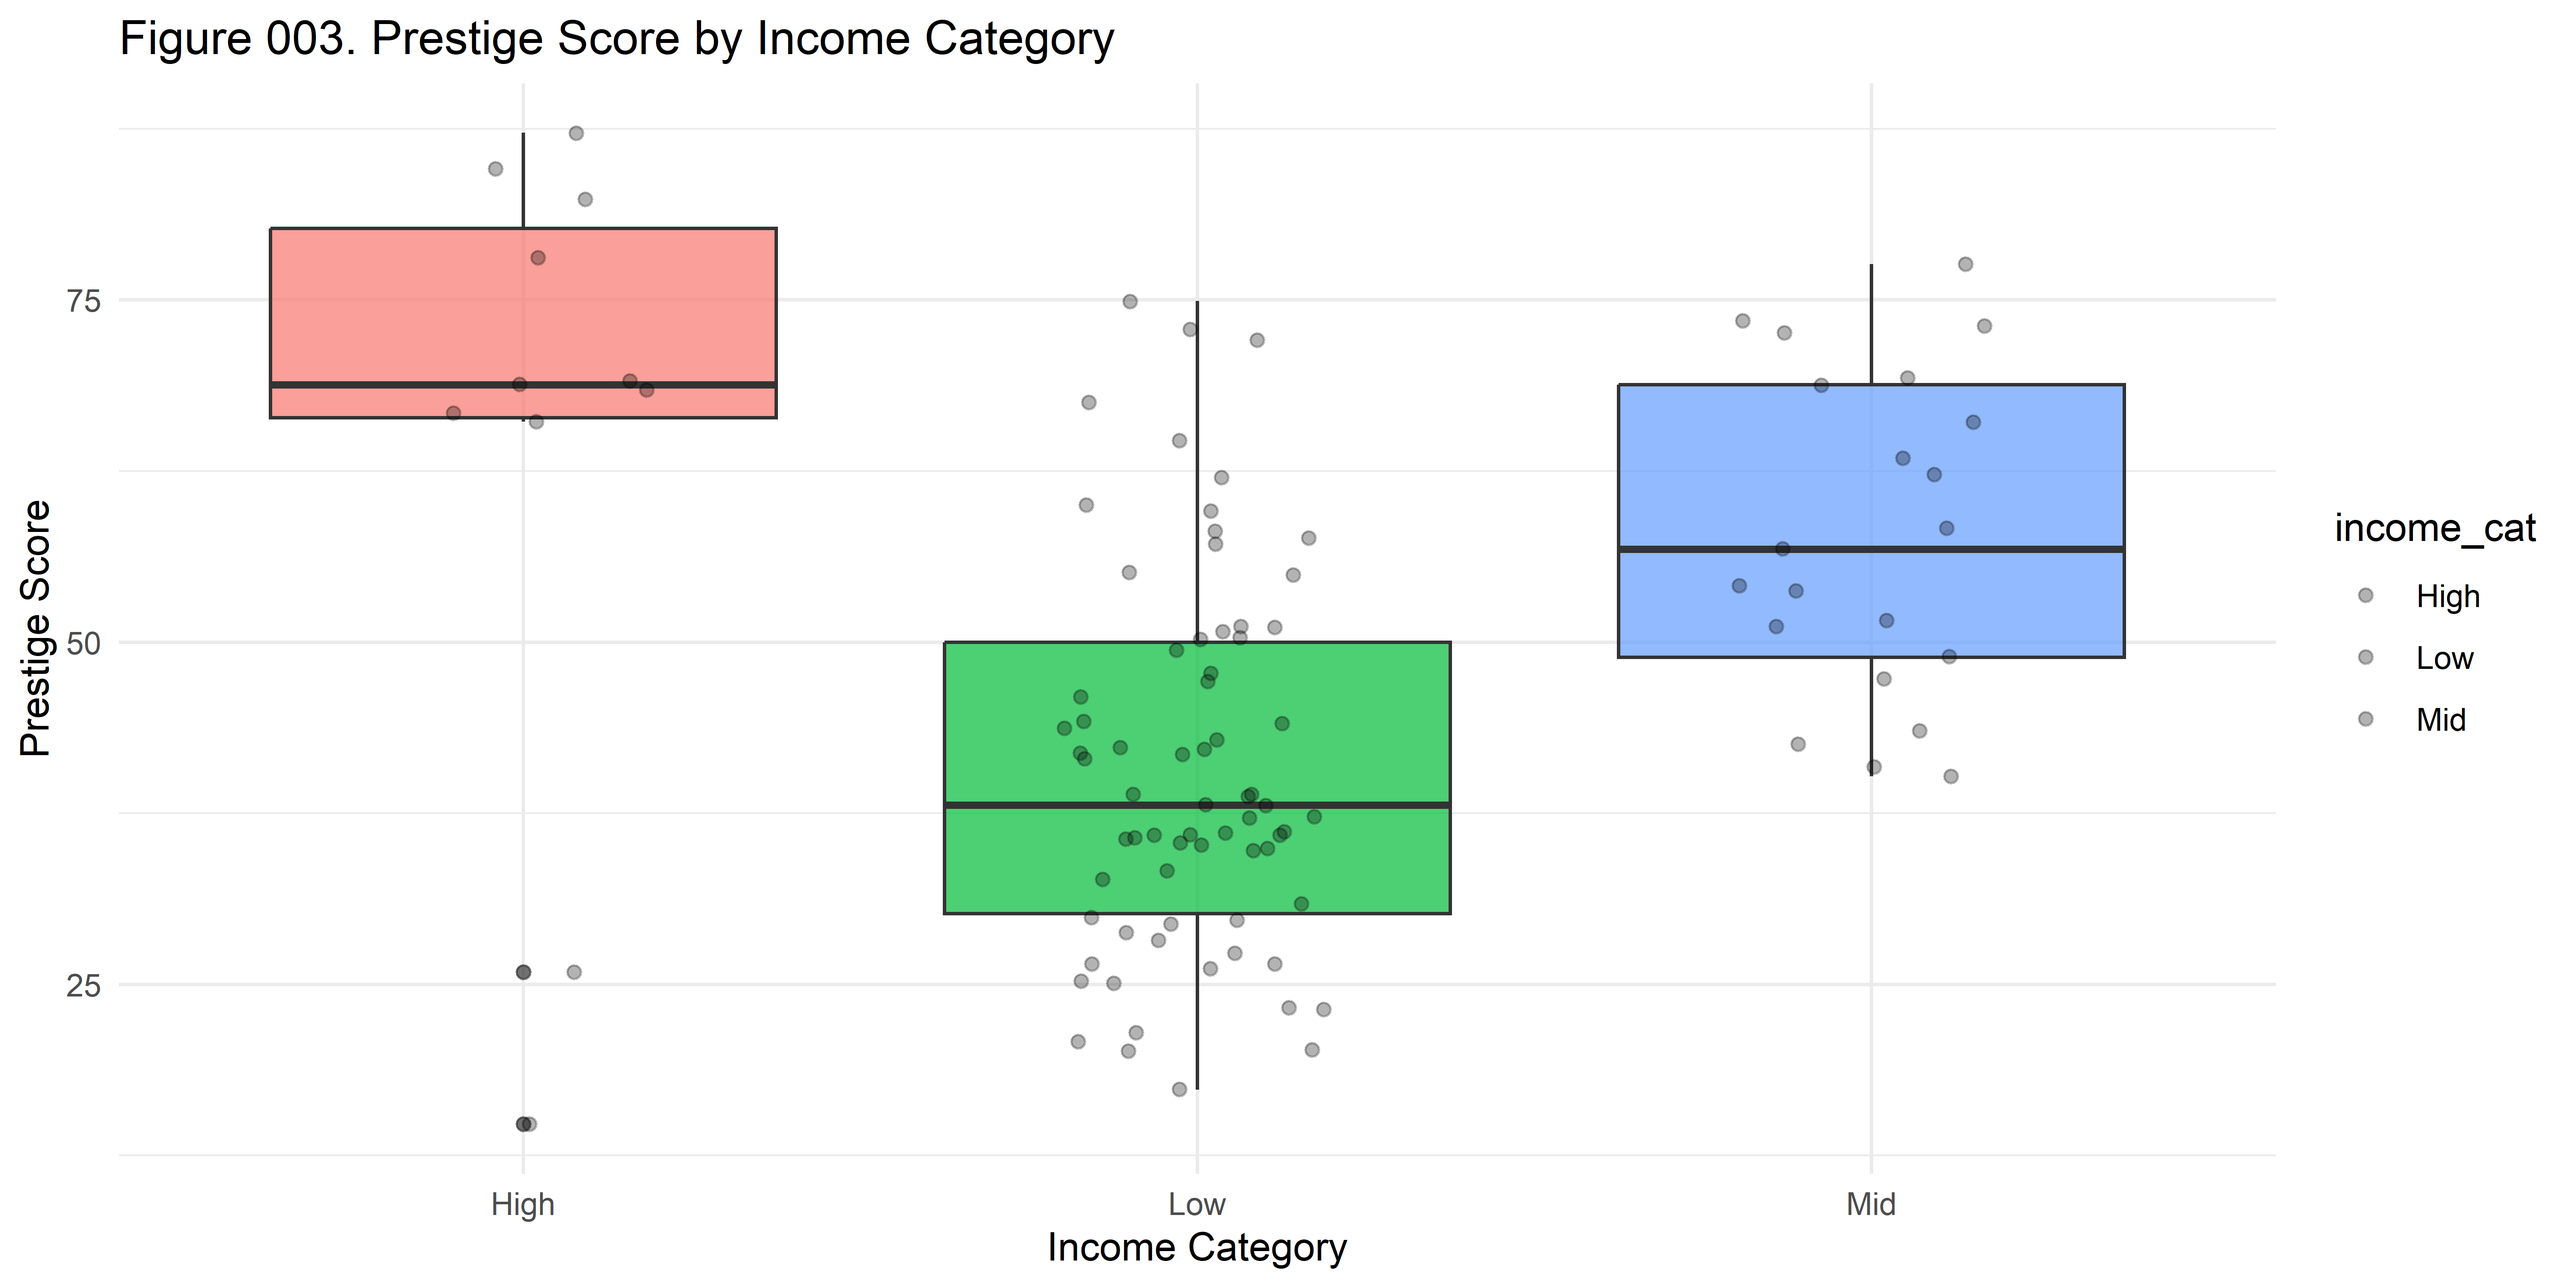
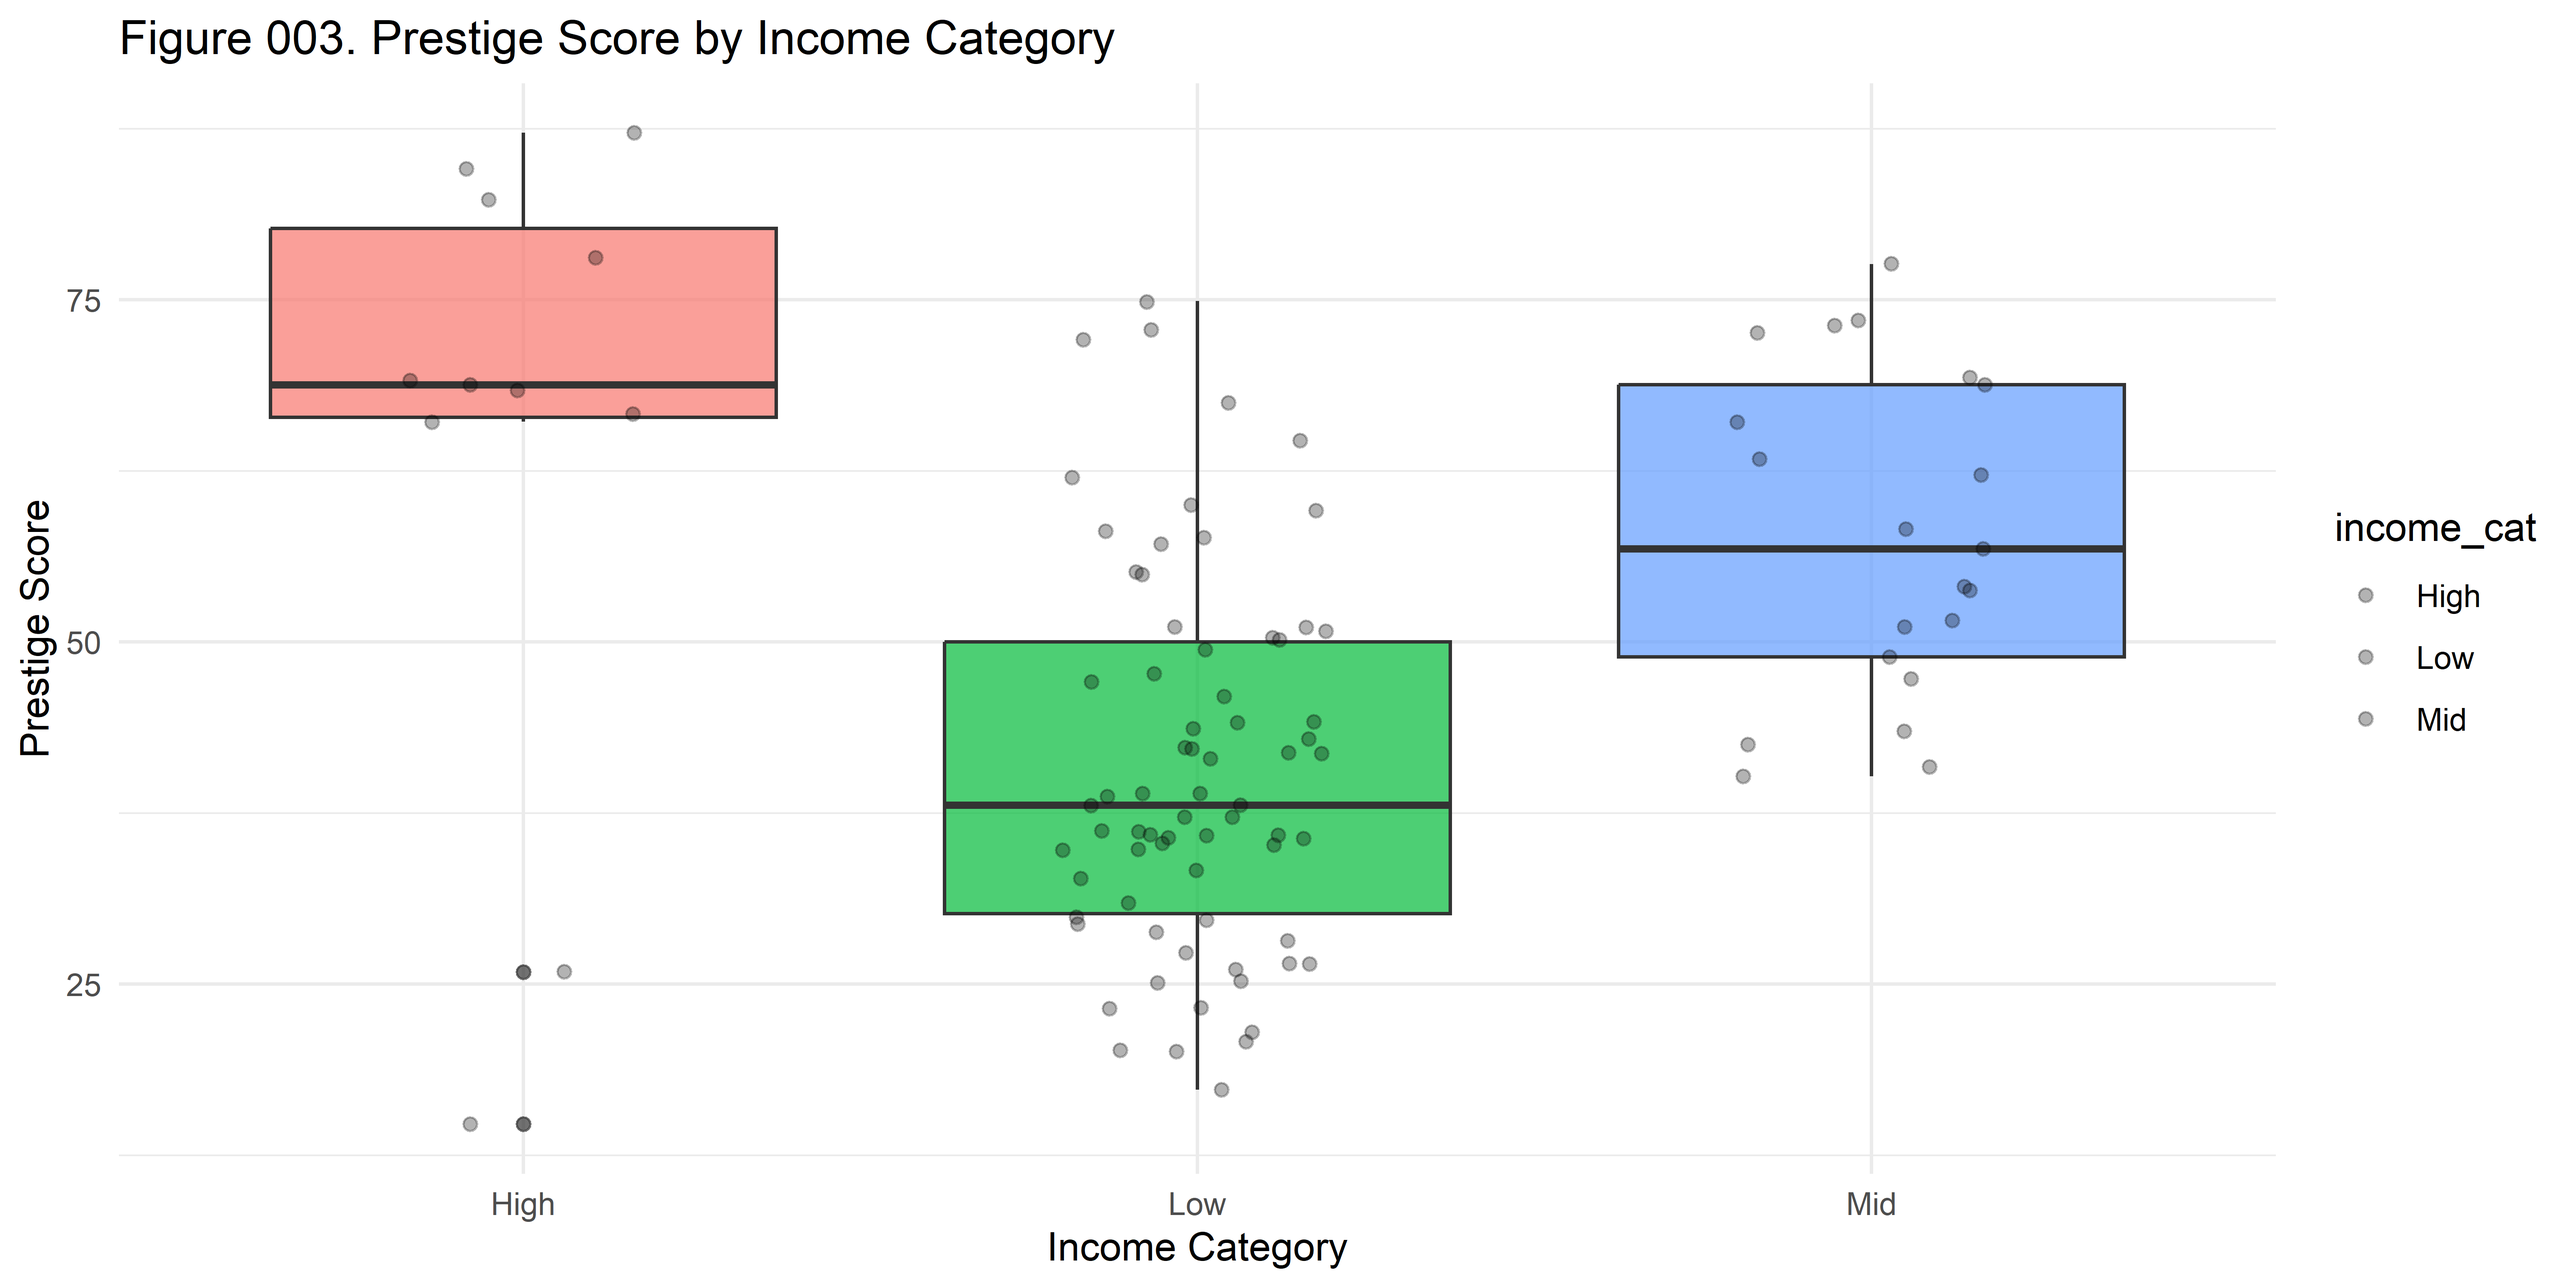
qr code

diff --git a/presentations/bigsss/ososci.html b/presentations/bigsss/ososci.html
@@ -251,6 +251,14 @@
 </figure>
 </div>
 </section>
+<section id="section-2" class="slide level2">
+<h2></h2>
+<div class="quarto-figure quarto-figure-center">
+<figure>
+<p><img data-src="images/qrcode.svg" class="quarto-figure quarto-figure-center" style="width:40.0%"></p>
+</figure>
+</div>
+</section>
 <section id="background-and-motivation" class="slide level2">
 <h2>Background and motivation</h2>
 <ul>
@@ -279,7 +287,7 @@
 <p><strong>Key Issues</strong> - Publication bias (selective positive results) - Decisions (hiden uncertainty) - Poor reproducibility (inaccessible data/code)</p>
 </div>
 </section>
-<section id="section-2" class="slide level2">
+<section id="section-3" class="slide level2">
 <h2></h2>
 <div class="r-stack">
 <p><img data-src="images/miske_2026.png" class="fragment" style="width:80.0%"></p>
@@ -1290,7 +1298,7 @@ wc</td>
 <h2>Univariate Visualizations (Output)</h2>
 <div class="code-copy-outer-scaffold"><div class="sourceCode cell-code" id="cb19"><pre class="sourceCode numberSource r number-lines code-with-copy"><code class="sourceCode r"><span id="cb19-1"><a href=""></a>p_hist</span>
 <span id="cb19-2"><a href=""></a>p_bar </span></code></pre></div><button title="Copiar al portapapeles" class="code-copy-button"><i class="bi"></i></button></div>
-<div class="cell quarto-layout-panel" data-layout-ncol="2" data-layout-align="center" height="100%" width="100%">
+<div class="cell quarto-layout-panel" height="100%" data-layout-align="center" width="100%" data-layout-ncol="2">
 <div class="quarto-layout-row">
 <div class="quarto-layout-cell" style="flex-basis: 50.0%;justify-content: center;">
 <div class="quarto-figure quarto-figure-center">
@@ -2512,7 +2520,11 @@ of the variance in prestige.</code></pre>
 </section></section>
 <section id="thank-you-for-your-attention" class="title-slide slide level1 center">
 <h1>Thank you for your attention</h1>
-
+<div class="quarto-figure quarto-figure-center">
+<figure>
+<p><img data-src="images/qrcode.svg" class="quarto-figure quarto-figure-center" style="width:40.0%"></p>
+</figure>
+</div>
 </section>
 
 <section id="references" class="title-slide slide level1 smaller scrollable">
